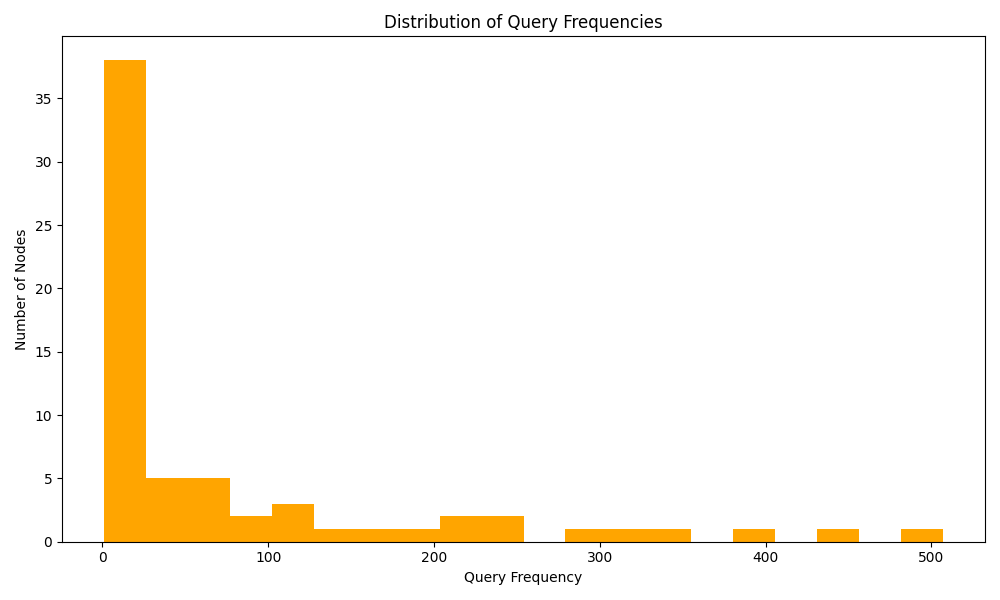
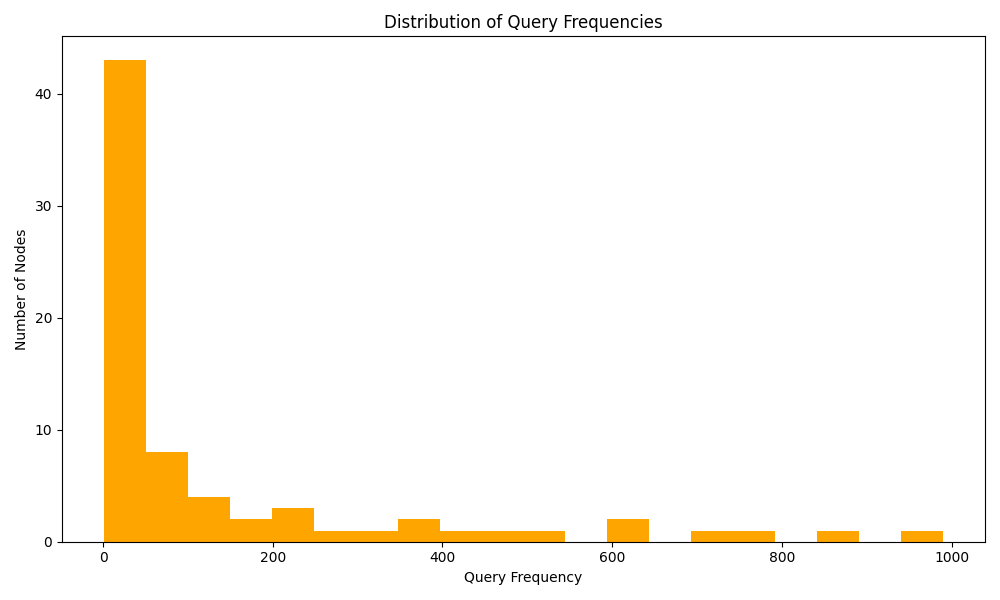
10k query test, more solutions

diff --git a/bogoDB/candidate_submission/optimize_graph.py b/bogoDB/candidate_submission/optimize_graph.py
@@ -105,7 +105,7 @@ def optimize_graph(
         new_edge = {next_node: 1}
         if int(node) > 90:
             new_edge = {0: 1}
-        if int(node) >= 10:
+        if int(node) >= 8:
             new_edge[0] = 0.05 + (int(node)-30)*0.001
         optimized_graph[node] = new_edge
     # =============================================================

diff --git a/bogoDB/scripts/constants.py b/bogoDB/scripts/constants.py
@@ -14,7 +14,7 @@ MAX_EDGES_PER_NODE = 3
 MAX_TOTAL_EDGES = 2 * NUM_NODES
 
 # Query parameters
-NUM_QUERIES = 5000
+NUM_QUERIES = 10000
 LAMBDA_PARAM = 0.1
 MAX_DEPTH = 10000
 

diff --git a/solution.md b/solution.md
@@ -15,7 +15,7 @@ However, we can't choose our starting node so probably the best we can do is n,0
 The probability of querying a node greater than n is approximately 
 $\int_{n}^{500} 0.1e^{-0.1x}dx$. For $n > 100$, this integral is around $10^{-5}$, so we don't actually care too much
 being able to reach nodes with large numbers as they're queried so rarely. If we start on a large number, we want to get
-to the $0$ node as quickly as possible, so we want a lot of nodes pointing towards $0$ node.
+to the 0 node as quickly as possible, so we want a lot of nodes pointing towards 0 node.
 
 
 ### Optimization Strategy
@@ -26,44 +26,61 @@ My combined score is just $\text{optimized rate} * (1+\text{path multiplier})$.
 
 Thus, my goal is to optimize for the median path length while maintaining a high overall success rate. This was interesting
 because optimizing for median performance is quite different from optimizing for average performance. In order to get a low median path length,
-we need to start with the path n, 0, 1, ..., 499 frequently. This requires $n$ to have a high edge weight to $0$, but this will
-result in a lot of loops because we could go $n,0,1,...,n,0...$.
+we need to start with the path n, 0, 1, ..., 499 frequently. This requires $n$ to have a high edge weight to 0, but this will
+result in a lot of loops because we could go n,0,1,...,n,0....
 
 First optimization is to make sure we spend as little time as possible traversing large nodes. We do this by having only giving them outgoing
-edges to $0$, and no incoming edges. We say large nodes are nodes > 80, as they collectively have less than a 0.03% chance to be queried.
-Second optimization is to connect the nodes in a chain $0 \to 1 \to 2 \to ... \to 80$. This way, after we hit node 0, we start on the optimal path.
+edges to 0, and no incoming edges. We say large nodes are nodes > 90, as they collectively have less than a 0.03% chance to be queried.
+Second optimization is to connect the nodes in a chain $0 \to 1 \to 2 \to ... \to 90$. This way, after we hit node 0, we start on the optimal path.
 
 For nodes > 7, we also give them a low chance to be sent back to 0. This is good, because 7,...,15 is strictly worse than
 a walk that goes from 7,0,1,...,6. Also, the best possible median is 8 (will justify in iteration journey), so we want to
-maximize P(path length <= 8), and overall success ratio. Looping to $0$ increases the chance of getting a short path, but decreases 
-the chance we succeed in finding the node (as we will have more loops in our path, so we might not reach node 80 before 10k steps).
+maximize P(path length <= 8), and overall success ratio. Looping to 0 increases the chance of getting a short path, but decreases 
+the chance we succeed in finding the node (as we will have more loops in our path, so we might not reach node 90 before 10k steps).
 
 
 ### Implementation Details
 
-The implementation was extremely straightforward. I just did edges from n to n+1 for $ n \leq 80$, some edges to $0$
-where the weight is linearly increasing with respect to $n$ for $8 \leq n \leq 80$, and for $n > 80$, I had
-only one edge going to $0$.
+The implementation was extremely straightforward. I just did edges from n to n+1 for $n \leq 90$, some edges to 0
+where the weight is linearly increasing with respect to $n$ for $8 \leq n \leq 90$, and for $n > 90$, I had
+only one edge going to 0.
 
 ### Results
 
-I ran my graph on 5,000 queries and I got a success rate of 100%, with a median path length of 8, giving an overall score of 527.
-I also claim that it's not possible to get a median of 7 without having a success rate > 80%. Notice that the optimal walk (0,1,...,)
+I ran my graph on 10,000 queries and I got a success rate of 100%, with a median path length of 8, giving an overall score of 530.
+I also claim that it's not possible to get a median of 7 without having a success rate > 90%. Notice that the optimal walk (0,1,...,)
 gets to the queried node in <= 7 steps only 53% of the time, as $int_{0}^7 0.1e^{-0.1x} dx = 0.503$. However, because the first node is randomly chosen,
-the best path becomes n,0,1,..., and the n start just wastes a step over half the time. Thus, even if we can do the next best path, the entire distribution is basically shifted up
-by one step, so we can't get a median of 7 while having a high success rate. Thus, what I coded should be close to optimal
-(though the success rate isn't truly 100% as my graph fails. A better graph would have a higher bound than 80).
+the best path becomes n,0,1,..., and the n start just wastes a step over half the time. Thus, even if we can do the optimal path given a random starting node,
+the entire distribution of random walk lengths would be shifted by close to one step, so we can't get a median of 7 while having a high success rate. Thus, what I coded should be close to optimal
+(though the success rate isn't truly 100% as my graph fails on large node queries which are rare. A better graph would have a higher bound than 90).
 
 ### Trade-offs & Limitations
 
-[Discuss any trade-offs or limitations of your approach]
+The main trade-off was between success rate and median path length. I realized that the optimal median path length was 8,
+so you want to try to do $n,0,1,2,3,4,5,6$ as much as possible (if $n \geq 7$), and otherwise some permutation of 
+$0,1,2,3,4,5,6,7$. This would look like sending any node $n \geq 7$ to 0 with high probability. However, the trade-off was that
+we would run into more loops, which would make it hard to find a node like 40 in 10k steps because we waste too many steps looping
+back to 0. Thus, there's a balance for how often we can go back to 0.
+
+On first-order, we should go back to 0 more frequently when we are on a larger node as the chance that the query node has
+an even larger number is just smaller. Thus, we don't harm our success rate as much, and the increase in the chance we find a path 
+with length less than 9 is larger (going to node 0 is better when your alternative is 101 vs 12). Thus, I went for a graph where the weight
+that each node had of going back to 0 was larger as the node value increased (starting from 8).
+
+The cap at 90 is also a limitation as my graph fails whenever a node > 90 is queried. The parameters for my weights can be further optimized
+through some grid search, so maybe a better graph would have an upper bound of 150 or use a smarter increase in weights on the edges to 0 (instead of piecewise linear).
 
 ### Iteration Journey
 
-[Briefly describe your iteration process - what approaches you tried, what you learned, and how your solution evolved]
+My first iteration was just a simple cycle from 0 to 499. This ensured a 100% success rate and a median path length of 250
+, but it did not take advantage of the fact that larger numbers are queried exponentially less frequently than smaller numbers.
 
----
+My next method was to add more backward edges to 0, especially for larger node values. This improved my average path length to 15, but 
+the success rate was low because I was getting caught in a lot of cycles.
 
-* Be concise but thorough - aim for 500-1000 words total
-* Include specific data and metrics where relevant
-* Explain your reasoning, not just what you did
+Then I realized that the odds of a large node being queried was really low, so I just ensured that nodes greater than 100
+always went to $0$. This was the biggest improvement in my method, as it did not decrease my accuracy by much, but it brought my
+median path length to 9. The only way to improve my graph beyond this point was to decrease my median path length to 8.
+However, for this to be a worthwhile effort, $\text{optimized rate} * (1+\log(1+\frac{560}{8})) > 100 * (1+\log(1+\frac{560}{9}))$, as the
+naive random path length was around 560. Thus, the success rate must be greater than 98.22% (otherwise we’re better off 
+just getting 100% success rate with a median path length of 9.0). I tested this by decreasing my 
